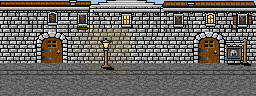
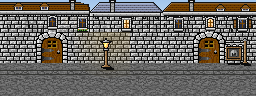
City roofs: seven tall city scenes with taller roofs

Changed region(s): [[0.0, 0.0, 1.0, 0.3438]]

diff --git a/src/game.js b/src/game.js
@@ -21,7 +21,7 @@ import { art } from './media.js';
 import { settleAway, watchHidden } from './away.js';
 import { faithChange } from './faith.js';
 
-const version = "2.19.894"; // 2.<big changes>.<commits>, kept by tools/version.py (docs/VERSIONS.md); v1: "02nov2020_10pm"
+const version = "2.19.895"; // 2.<big changes>.<commits>, kept by tools/version.py (docs/VERSIONS.md); v1: "02nov2020_10pm"
 let uniqueID;
 ui.objectSize = defineObjectSize();
 ui.headLevel = ui.objectSize * headLevelShare(ui.currentBackGround);      // row 28 of 256; row 24 in the connector scenes

diff --git a/docs/art-notes.md b/docs/art-notes.md
@@ -101,5 +101,5 @@ Author's idea behind it: double the height of the scene viewer in the game (scen
 
 - Faith art, invisible hand (author via coordinator, 2026-11-25): see docs/plans/for_implementation_faith.md section 11. Order: (1) door glow for nudges, (2) healing herb, (3) enemy weakening effect, (4) 1 HP graze effect. Options on one sprite first, then the set once he picks; review drop only, dev wires. Next artist session (not started yet).
 
-- City roofs (author, 2026-11-25): roofs too squashed (1, 3, 5). Options on tall la_ciudad1 in the review drop: places/tall/la_ciudad1_a.png (hipped), _b.png (hipped + dormers + stone gable), _c.png (mansards + dormers). Method: upper floor (orig rows 7-27) moved down 4 rows, which keeps the stone courses lined up; roofs redrawn in rows 0-10; bottom 64 rows untouched. Same squashed roofs found in tall la_ciudad2, 4, _altar and _estatua; casadados and taberna are interiors (not affected). After the pick: batch 3 and 5 first, then 2, 4, altar, estatua (no change to the 64-row scenes, the roofs live only in the tall top).
+- City roofs (author, 2026-11-25): approved, all three styles kept and mixed. Batch of 7 tall scenes in the review drop places/tall/roofs/ (la_ciudad1 in style b, 2, 3, 4, 5, _altar, _estatua) waiting for dev to copy them into img/places/tall/tall_la_ciudad*.png. Method: upper floor moved down 4 rows, roofs redrawn above it, bottom 64 rows and the side walls in 3 and 4 untouched; casadados and taberna are interiors (no change). Script kept at C:/tmp/art/batch.py.
 - las_dunas4 stray pixels removed (tall and regular) in the review drop, 2026-11-25.

diff --git a/CHANGELOG.md b/CHANGELOG.md
@@ -1,6 +1,7 @@
 # Changelog
 
 ## Unreleased
+- City roofs: the seven tall city scenes (Ciudad 1 to 5, altar, statue) have taller, less squashed roofs in a mix of tile and slate, hipped and mansard, with dormers and chimneys. Only the top rows changed; the 64 rows shown by default are the same.
 - Winning back an Atheist: the god's free revive now counts double for him (belief +4 instead of +2, and the god gets back faith: 3 prayers' worth, 6 for an Atheist; placeholders in config.belief.weights.reviveAtheist and config.faith.reviveFe).
 - Hotspots: the author's idea notes in the Prairie (town, swamp, castle, tower, tundra, city) and the south-east bridge are now real exit spots; the Dunas and Desierto taverns are place spots (inn); the ladder spots got labels; the dice house stays a note until it has an event.
 - Hotspots dev tool: a "What are the kinds?" legend explains exit, mouth, place and dream (also as tooltips of the kind menu), and there is a new kind, idea: a free-text note for the author that the game ignores.

diff --git a/ideas.md b/ideas.md
@@ -401,3 +401,4 @@ Newest first; keep the last three, cut older ones to the archive.
 - 2026-11-25 (dev): Hotspots tool: kind legend + new kind idea (field note, kept by tools/serve.py hotspots_post, ignored by nudge.touchSpot). Untested in a browser.
 - 2026-11-25 (dev): hotspots evaluated: 7 idea notes became exits (town x2, swamp, castle, tower, tundra, city), Dunas/Desierto taverns = place inn, ladder labels. Left as notes for thinker: gold x2, rune/skeleton, secret place (Pradera4), dice house event. Untested in a browser.
 - 2026-11-25 (dev): faith step 3, winning back: free revive doubled for an Atheist (belief and faith). Left: sign (needs a sky/scene tap target), dream shrine (hotspot kind dream with to: shrine, dream.js only knows nightmare), hidden blessings, pilgrim, relics. Untested in a browser.
+- 2026-11-25 (dev): city roofs (artist, author approved) copied into img/places/tall for the 7 tall city scenes. las_dunas4 stray-pixel fix still waits for the author in the review drop.
